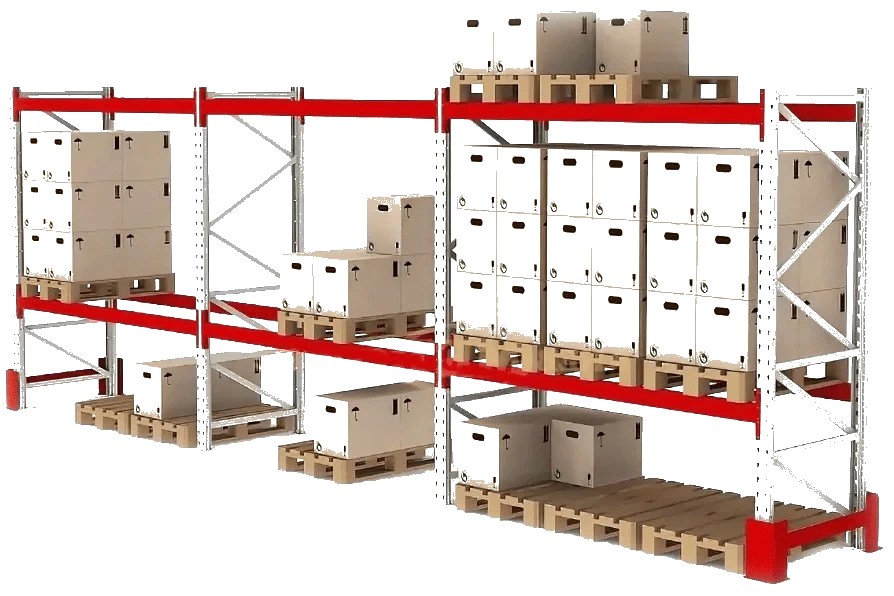
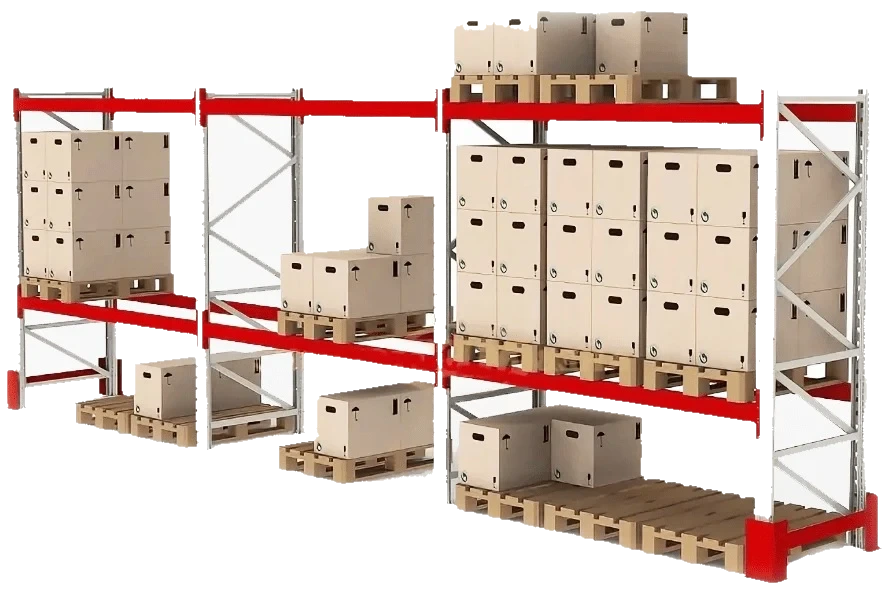
Паллетные hero: чистый вырез фона (floodfill от углов + эрозия ореола, Fable)

diff --git a/stellazhi-palletnye.html b/stellazhi-palletnye.html
@@ -138,7 +138,7 @@
           </a>
         </div>
         <figure class="page-hero-media page-hero-media--plain reveal">
-          <img src="assets/catalog/palletnye-hero-t.webp" alt="Паллетные фронтальные стеллажи NASTEEL с поддонами и коробками" width="894" height="596" decoding="async">
+          <img src="assets/catalog/palletnye-hero-t.webp?v=2" alt="Паллетные фронтальные стеллажи NASTEEL с поддонами и коробками" width="894" height="596" decoding="async">
         </figure>
       </div>
       <div class="page-stats" aria-label="Показатели завода">
